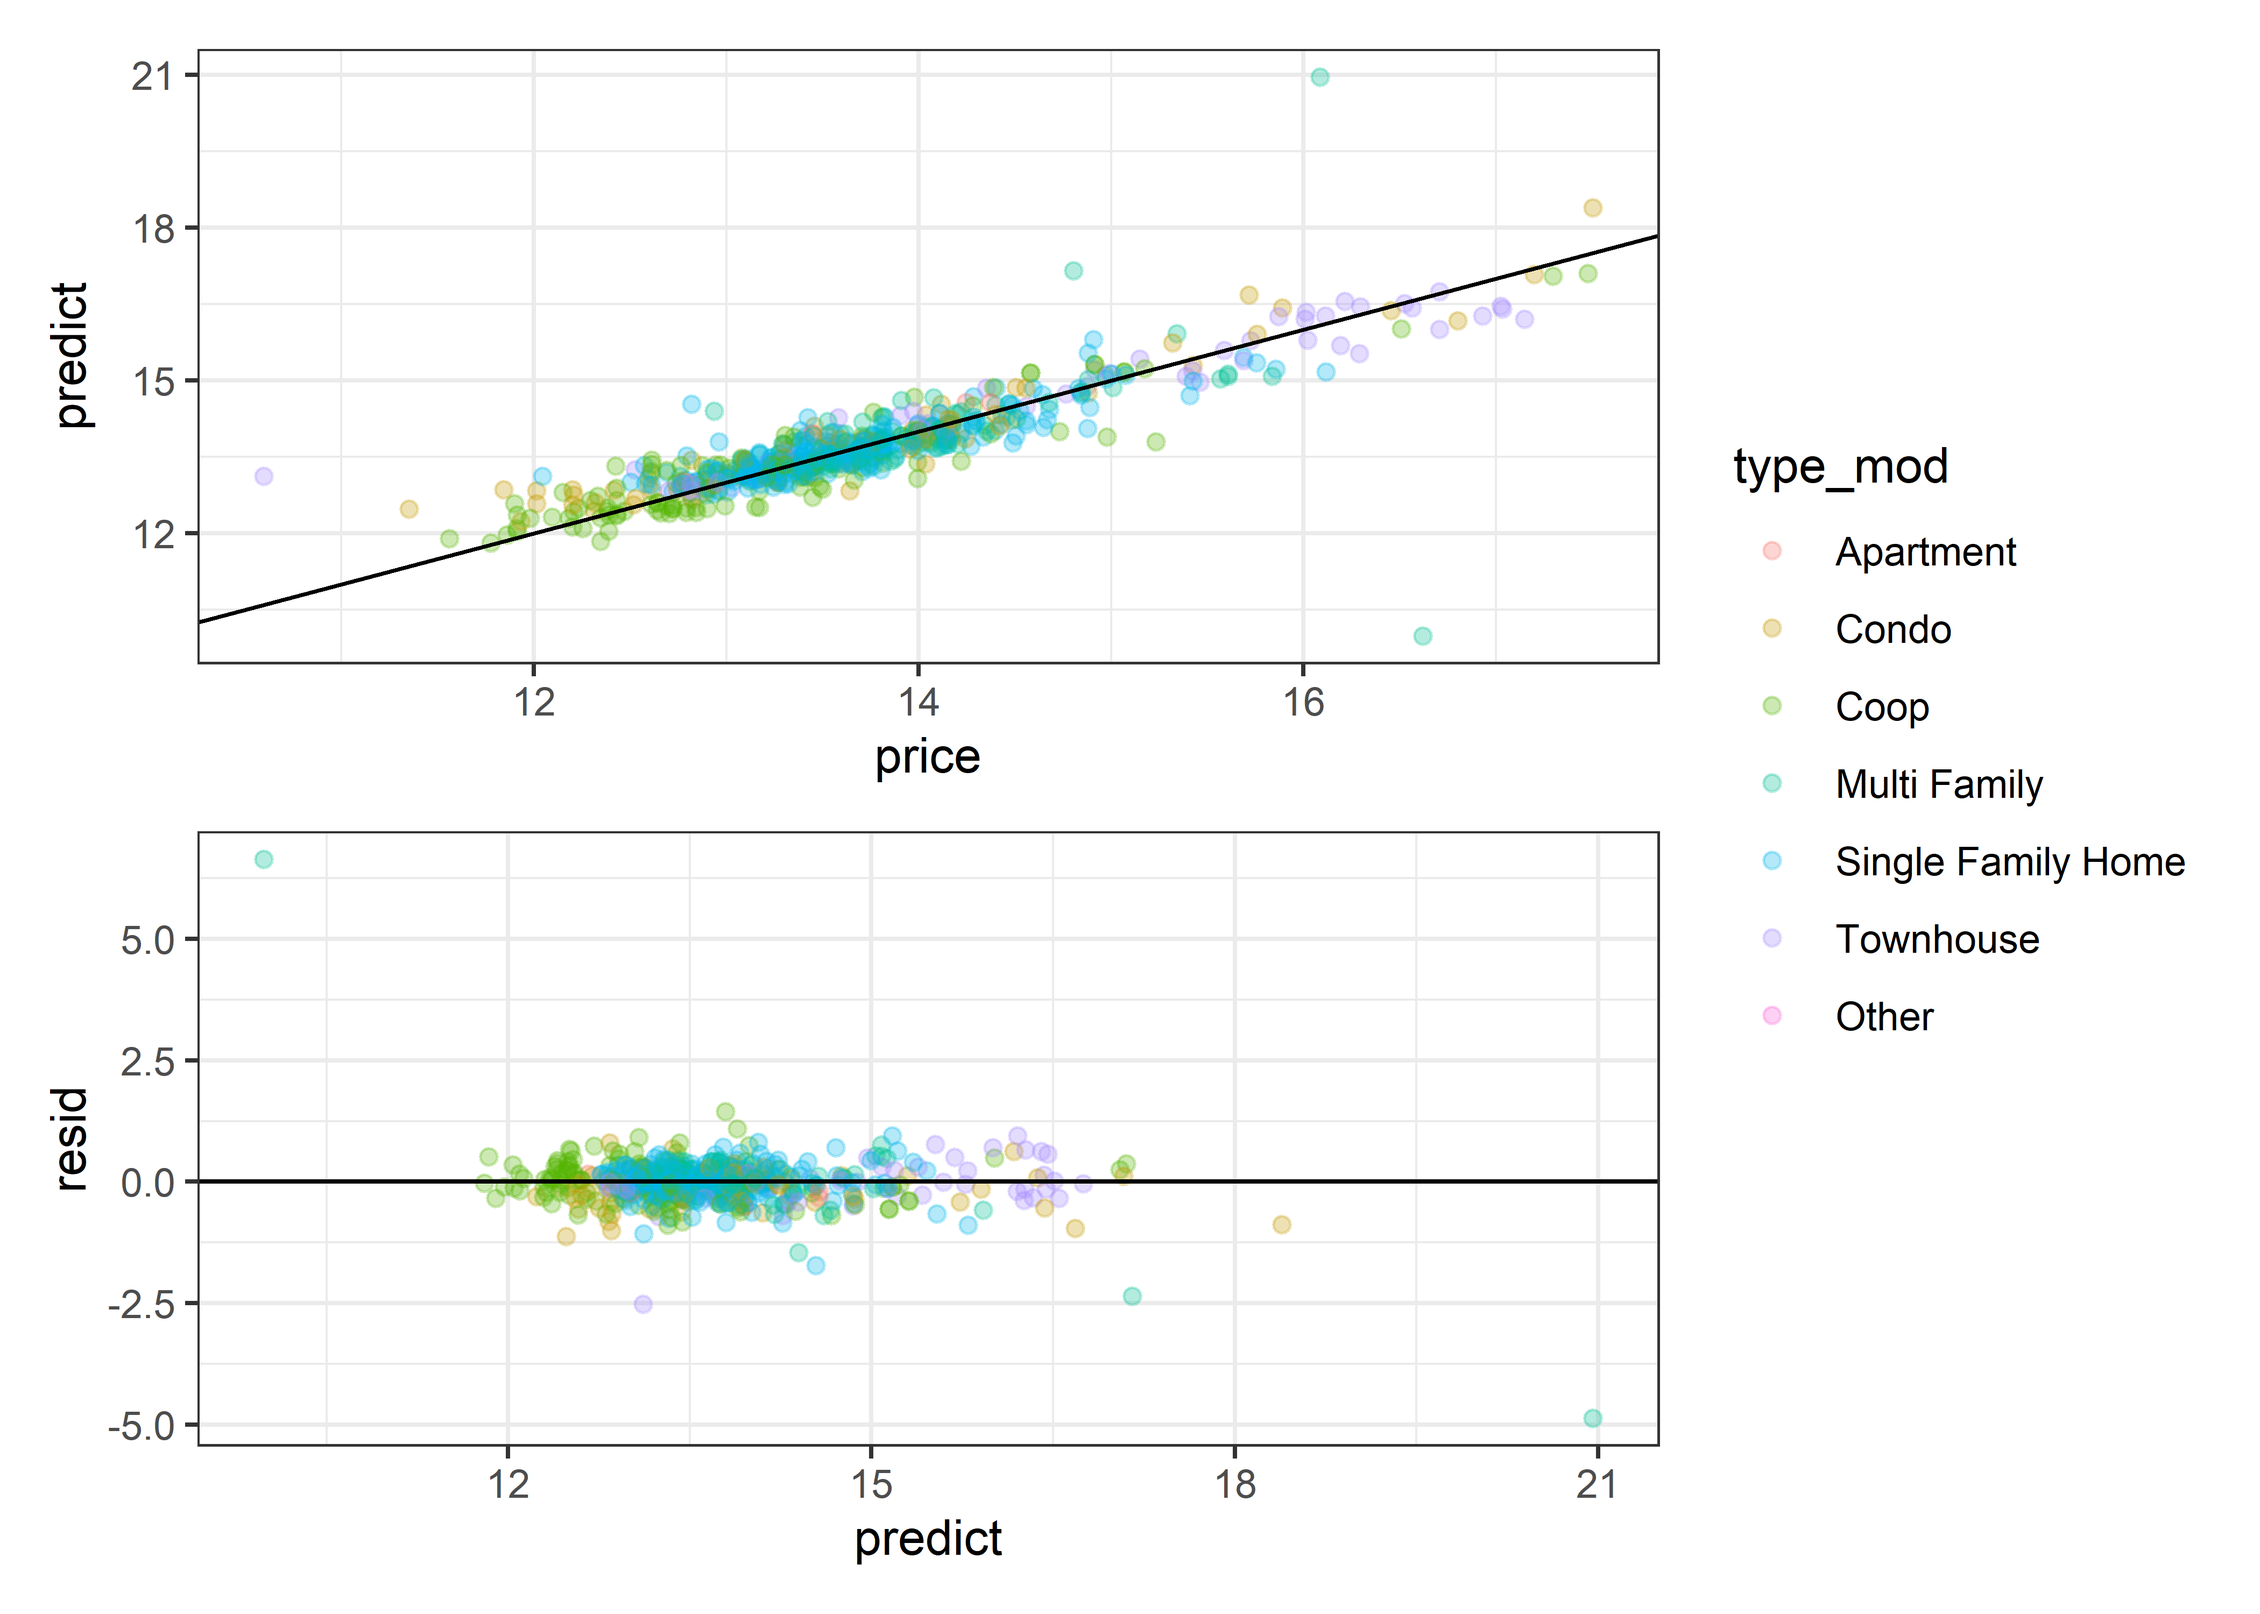
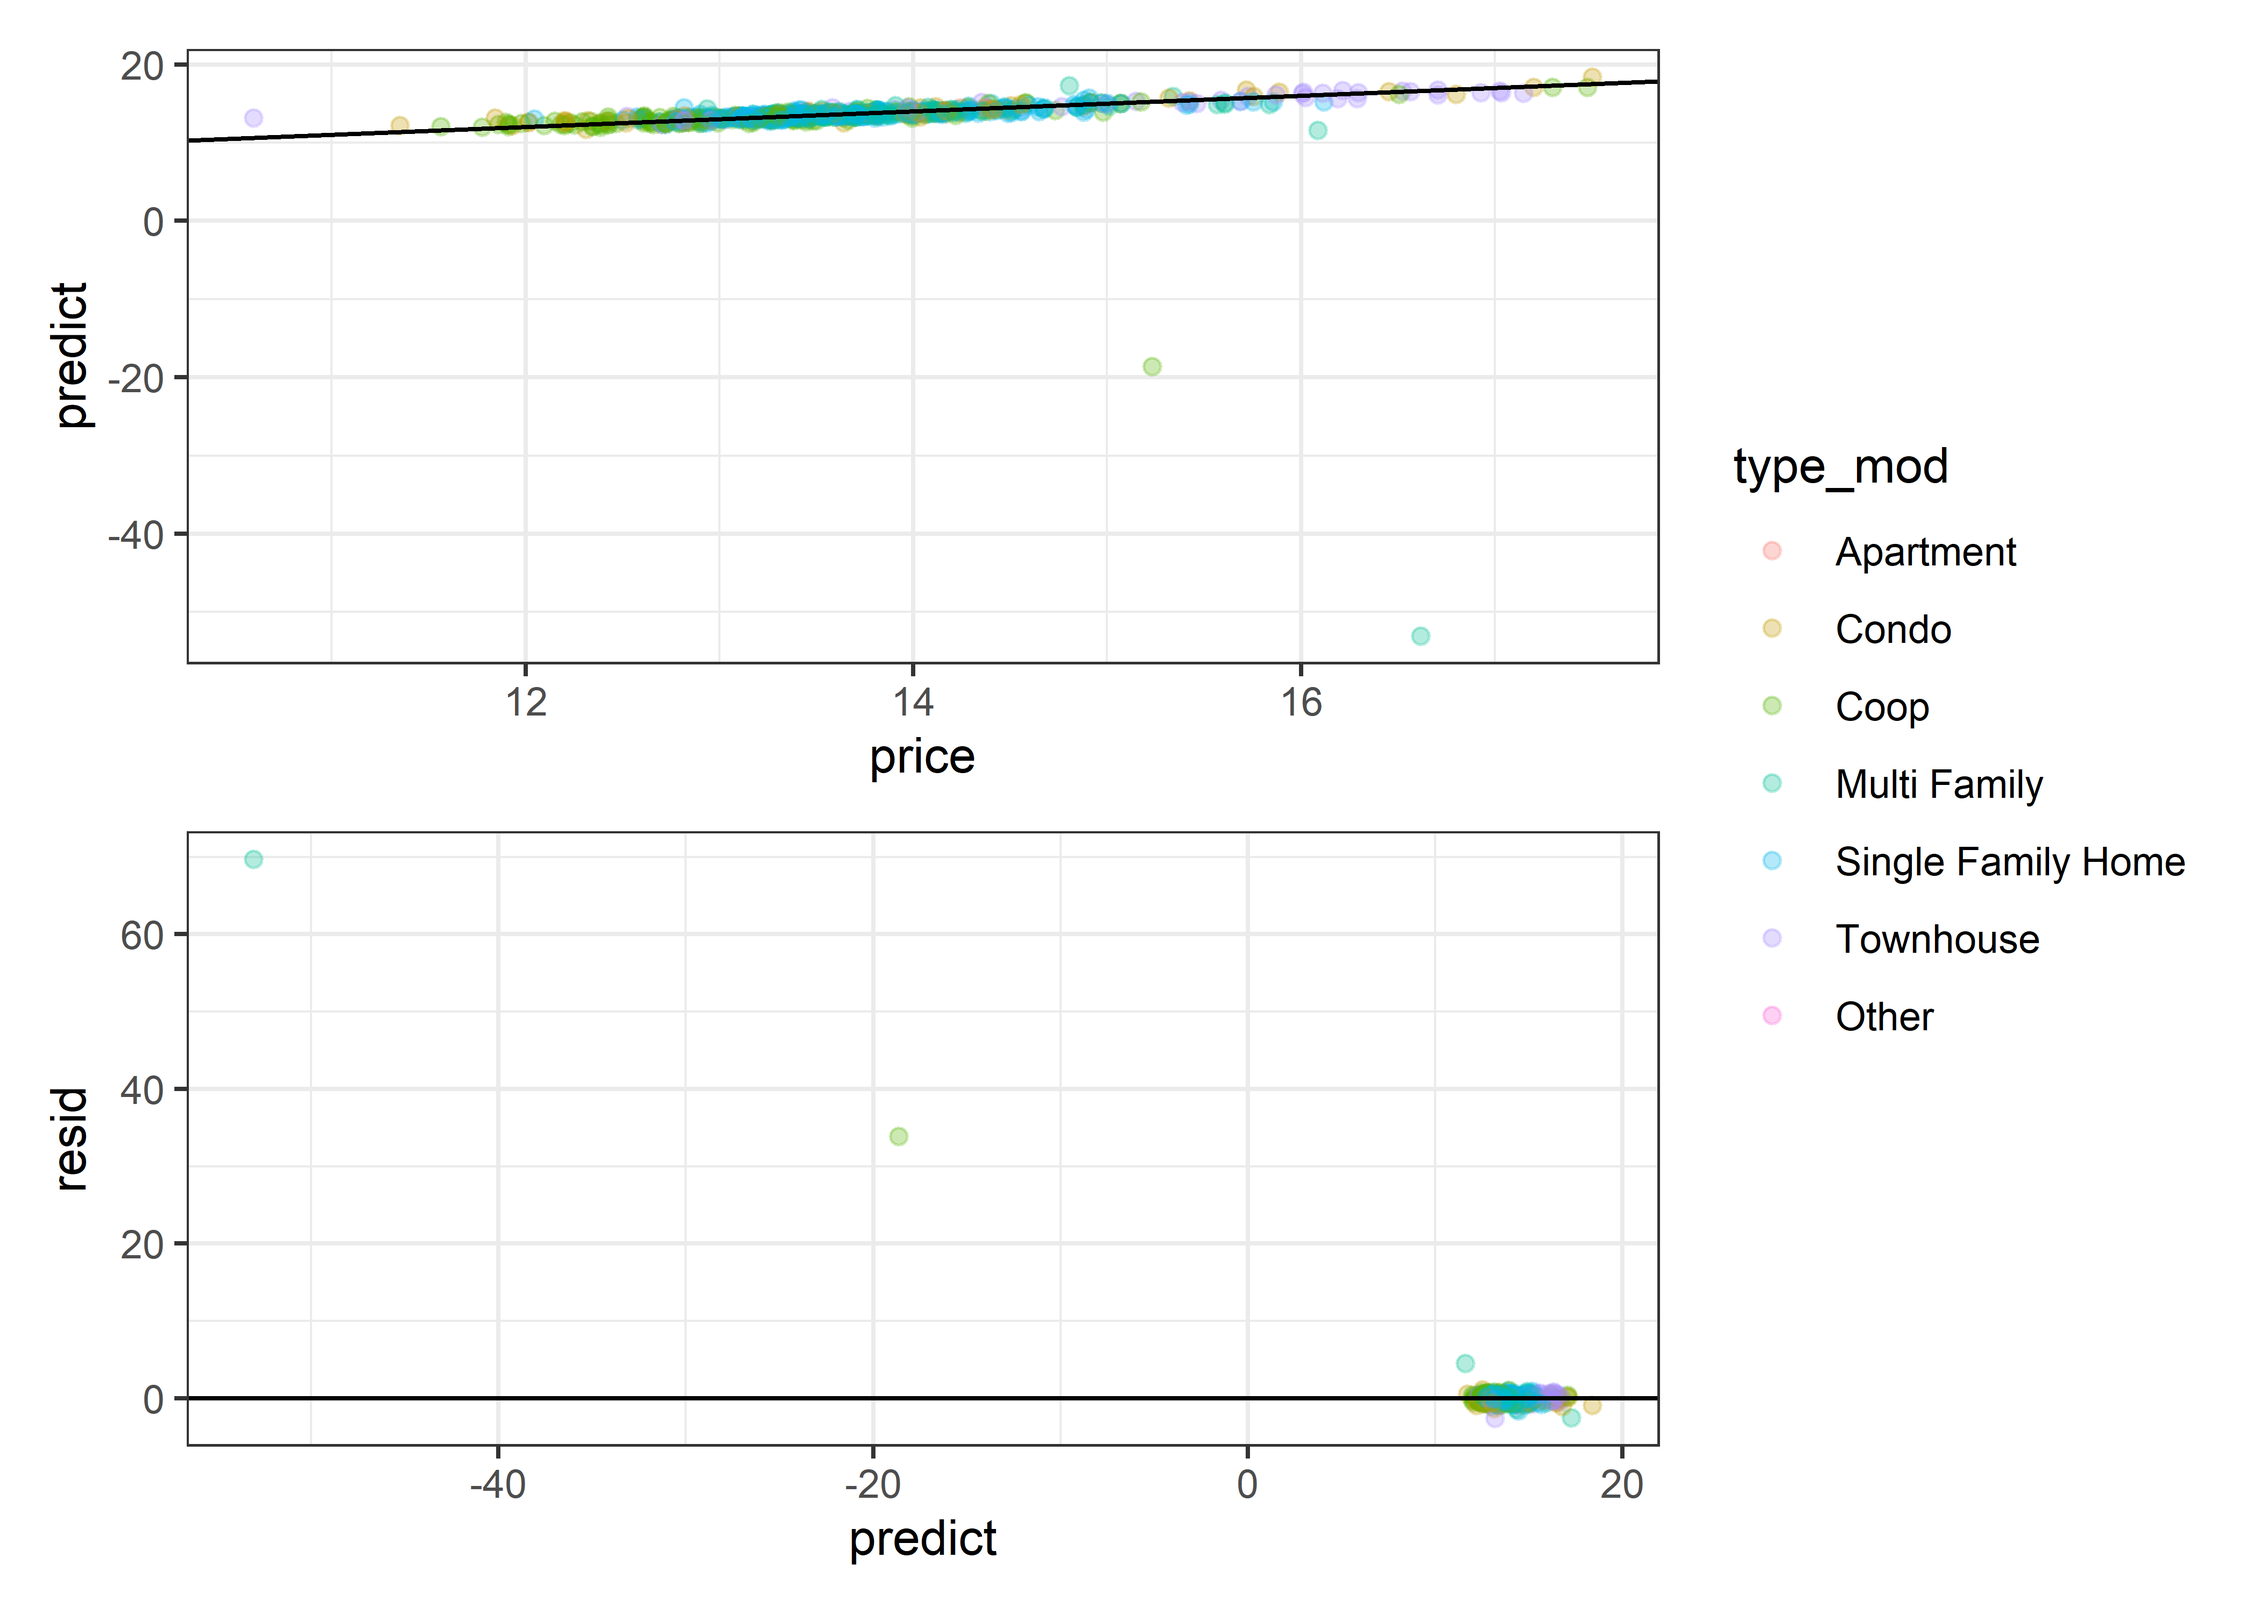
updated mgcv

diff --git a/NYC House Prices/NYCHousePrices.md b/NYC House Prices/NYCHousePrices.md
@@ -678,6 +678,20 @@ all_metrics_rf %>%
 
 ``` r
 library(mgcv)
+```
+
+    ## Loading required package: nlme
+
+    ## 
+    ## Attaching package: 'nlme'
+
+    ## The following object is masked from 'package:dplyr':
+    ## 
+    ##     collapse
+
+    ## This is mgcv 1.8-39. For overview type 'help("mgcv-package")'.
+
+``` r
 set.seed(10)
 gam_data <- house %>% 
   select(price, tax, sqft, bath, lon, lat, type_mod) %>% 
@@ -690,7 +704,7 @@ gam_train <- training(gam_split)
 gam_test <- testing(gam_split)
 
 gam_mod <- gam(price ~ s(sqft, by = type_mod) + s(bath, by = type_mod) + 
-                 s(lon, lat), gaussian, gam_train)
+                 te(lon, lat), gaussian, gam_train)
 
 summary(gam_mod)
 ```
@@ -700,36 +714,36 @@ summary(gam_mod)
     ## Link function: identity 
     ## 
     ## Formula:
-    ## price ~ s(sqft, by = type_mod) + s(bath, by = type_mod) + s(lon, 
+    ## price ~ s(sqft, by = type_mod) + s(bath, by = type_mod) + te(lon, 
     ##     lat)
     ## 
     ## Parametric coefficients:
     ##             Estimate Std. Error t value Pr(>|t|)    
-    ## (Intercept)  13.7306     0.1524   90.09   <2e-16 ***
+    ## (Intercept)  13.8154     0.1491   92.64   <2e-16 ***
     ## ---
     ## Signif. codes:  0 '***' 0.001 '**' 0.01 '*' 0.05 '.' 0.1 ' ' 1
     ## 
     ## Approximate significance of smooth terms:
     ##                                       edf Ref.df       F  p-value    
-    ## s(sqft):type_modApartment           1.000  1.001   0.716  0.39775    
-    ## s(sqft):type_modCondo               2.928  2.996  33.022  < 2e-16 ***
-    ## s(sqft):type_modCoop                8.516  8.923   5.534 4.38e-07 ***
-    ## s(sqft):type_modMulti Family        3.259  3.443  27.063  < 2e-16 ***
-    ## s(sqft):type_modSingle Family Home  2.801  2.962 102.157  < 2e-16 ***
-    ## s(sqft):type_modTownhouse           3.896  3.989  37.626  < 2e-16 ***
-    ## s(bath):type_modApartment           1.749  2.043  16.745 2.15e-07 ***
-    ## s(bath):type_modCondo               3.869  4.225   6.561 8.25e-05 ***
-    ## s(bath):type_modCoop                6.098  6.398 152.674  < 2e-16 ***
-    ## s(bath):type_modMulti Family        5.352  6.095   3.909  0.00057 ***
-    ## s(bath):type_modSingle Family Home  5.382  6.194  15.990  < 2e-16 ***
-    ## s(bath):type_modTownhouse           6.749  6.965  12.817  < 2e-16 ***
-    ## s(lon,lat)                         27.501 28.851  65.915  < 2e-16 ***
+    ## s(sqft):type_modApartment           1.001  1.001   0.970  0.32507    
+    ## s(sqft):type_modCondo               2.943  2.997  26.827  < 2e-16 ***
+    ## s(sqft):type_modCoop                8.660  8.961   5.590 3.52e-07 ***
+    ## s(sqft):type_modMulti Family        3.584  3.817  20.441  < 2e-16 ***
+    ## s(sqft):type_modSingle Family Home  2.632  2.865  93.285  < 2e-16 ***
+    ## s(sqft):type_modTownhouse           3.898  3.990  37.434  < 2e-16 ***
+    ## s(bath):type_modApartment           1.666  1.959  17.863 1.68e-06 ***
+    ## s(bath):type_modCondo               3.785  4.157   6.737 4.76e-05 ***
+    ## s(bath):type_modCoop                6.060  6.366 155.575  < 2e-16 ***
+    ## s(bath):type_modMulti Family        4.812  5.588   3.441  0.00274 ** 
+    ## s(bath):type_modSingle Family Home  5.360  6.174  15.841  < 2e-16 ***
+    ## s(bath):type_modTownhouse           6.744  6.963  11.643  < 2e-16 ***
+    ## te(lon,lat)                        23.793 23.974  66.378  < 2e-16 ***
     ## ---
     ## Signif. codes:  0 '***' 0.001 '**' 0.01 '*' 0.05 '.' 0.1 ' ' 1
     ## 
-    ## Rank: 132/138
-    ## R-sq.(adj) =  0.857   Deviance explained = 86.3%
-    ## GCV = 0.14226  Scale est. = 0.13636   n = 1934
+    ## Rank: 128/133
+    ## R-sq.(adj) =  0.843   Deviance explained = 84.9%
+    ## GCV = 0.15554  Scale est. = 0.14943   n = 1934
 
 ``` r
 augment(gam_mod) %>% 
@@ -739,9 +753,9 @@ augment(gam_mod) %>%
     ## # A tibble: 3 x 3
     ##   .metric .estimator .estimate
     ##   <chr>   <chr>          <dbl>
-    ## 1 rsq     standard       0.863
-    ## 2 rmse    standard       0.362
-    ## 3 mae     standard       0.246
+    ## 1 rsq     standard       0.849
+    ## 2 rmse    standard       0.379
+    ## 3 mae     standard       0.266
 
 ``` r
 (gam_test %>% 
@@ -765,28 +779,28 @@ gam.check(gam_mod)
 
     ## 
     ## Method: GCV   Optimizer: magic
-    ## Smoothing parameter selection converged after 64 iterations.
-    ## The RMS GCV score gradient at convergence was 6.260063e-06 .
+    ## Smoothing parameter selection converged after 57 iterations.
+    ## The RMS GCV score gradient at convergence was 2.372017e-06 .
     ## The Hessian was positive definite.
-    ## Model rank =  132 / 138 
+    ## Model rank =  128 / 133 
     ## 
     ## Basis dimension (k) checking results. Low p-value (k-index<1) may
     ## indicate that k is too low, especially if edf is close to k'.
     ## 
     ##                                       k'   edf k-index p-value    
-    ## s(sqft):type_modApartment           9.00  1.00    0.94  <2e-16 ***
-    ## s(sqft):type_modCondo               9.00  2.93    0.94  <2e-16 ***
-    ## s(sqft):type_modCoop                9.00  8.52    0.94  <2e-16 ***
-    ## s(sqft):type_modMulti Family        9.00  3.26    0.94  <2e-16 ***
-    ## s(sqft):type_modSingle Family Home  9.00  2.80    0.94   0.005 ** 
-    ## s(sqft):type_modTownhouse           9.00  3.90    0.94  <2e-16 ***
-    ## s(bath):type_modApartment           9.00  1.75    0.94  <2e-16 ***
-    ## s(bath):type_modCondo               9.00  3.87    0.94   0.005 ** 
-    ## s(bath):type_modCoop                9.00  6.10    0.94   0.010 ** 
-    ## s(bath):type_modMulti Family        9.00  5.35    0.94  <2e-16 ***
-    ## s(bath):type_modSingle Family Home  9.00  5.38    0.94  <2e-16 ***
-    ## s(bath):type_modTownhouse           9.00  6.75    0.94   0.005 ** 
-    ## s(lon,lat)                         29.00 27.50    0.81  <2e-16 ***
+    ## s(sqft):type_modApartment           9.00  1.00    0.94   0.005 ** 
+    ## s(sqft):type_modCondo               9.00  2.94    0.94  <2e-16 ***
+    ## s(sqft):type_modCoop                9.00  8.66    0.94  <2e-16 ***
+    ## s(sqft):type_modMulti Family        9.00  3.58    0.94  <2e-16 ***
+    ## s(sqft):type_modSingle Family Home  9.00  2.63    0.94  <2e-16 ***
+    ## s(sqft):type_modTownhouse           9.00  3.90    0.94   0.010 ** 
+    ## s(bath):type_modApartment           9.00  1.67    0.95  <2e-16 ***
+    ## s(bath):type_modCondo               9.00  3.78    0.95   0.020 *  
+    ## s(bath):type_modCoop                9.00  6.06    0.95   0.025 *  
+    ## s(bath):type_modMulti Family        9.00  4.81    0.95   0.010 ** 
+    ## s(bath):type_modSingle Family Home  9.00  5.36    0.95   0.020 *  
+    ## s(bath):type_modTownhouse           9.00  6.74    0.95   0.005 ** 
+    ## te(lon,lat)                        24.00 23.79    0.72  <2e-16 ***
     ## ---
     ## Signif. codes:  0 '***' 0.001 '**' 0.01 '*' 0.05 '.' 0.1 ' ' 1
 
@@ -805,7 +819,7 @@ all_metrics_rf %>%
     ## # A tibble: 15 x 4
     ##    .metric .estimator .estimate model
     ##    <chr>   <chr>          <dbl> <chr>
-    ##  1 rsq     standard       0.863 5    
+    ##  1 rsq     standard       0.849 5    
     ##  2 rsq     standard       0.688 1    
     ##  3 rsq     standard       0.681 2    
     ##  4 rsq     standard       0.655 3    
@@ -814,12 +828,12 @@ all_metrics_rf %>%
     ##  7 rmse    standard       0.530 3    
     ##  8 rmse    standard       0.508 2    
     ##  9 rmse    standard       0.500 1    
-    ## 10 rmse    standard       0.362 5    
+    ## 10 rmse    standard       0.379 5    
     ## 11 mae     standard       0.412 4    
     ## 12 mae     standard       0.383 3    
     ## 13 mae     standard       0.349 2    
     ## 14 mae     standard       0.346 1    
-    ## 15 mae     standard       0.246 5
+    ## 15 mae     standard       0.266 5
 
 ``` r
 all_metrics_rf %>% 
